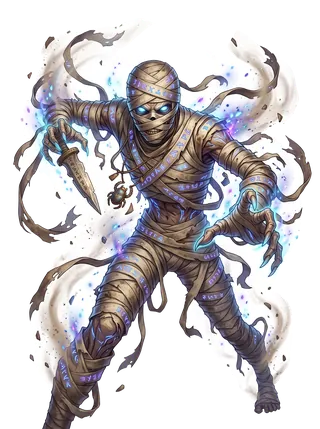
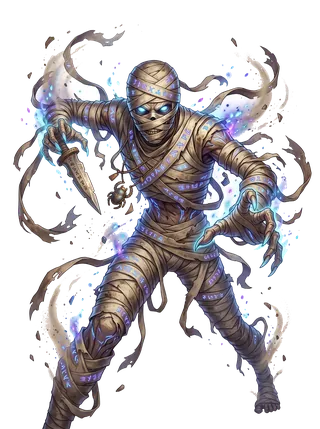
改以橫式為主；修正屍爆怪（木乃伊）去背
- 戰鬥畫面預設改為橫式 HD-2D，直式改為舊版選項
- 編隊畫面橫向時改成左右兩欄，設定列收成一行
- tools/clean_cutout.py：清除跟透明外圍相連的白色殘留，修正 m14
- 其他角色掃描後白邊比例都很低（白色多為衣服或光效），不動

Claude-Session: https://claude.ai/code/session_01265GNesEmZvmyxeNsVDU3M

diff --git a/css/style.css b/css/style.css
@@ -125,6 +125,29 @@ a.icon-btn { text-decoration: none; color: inherit; }
 }
 .auto-toggle { font-size: 12px; color: var(--muted); display: flex; align-items: center; gap: 4px; white-space: nowrap; }
 
+/* 編隊畫面：橫向螢幕改成左右兩欄（左：戰鬥與隊伍；右：英雄），兩欄各自捲動 */
+@media (orientation: landscape) and (min-width: 640px) {
+    #app { max-width: 1100px; }
+    #screen-setup.active { display: flex; flex-direction: column; height: 100dvh; padding-bottom: 0; padding-left: calc(14px + env(safe-area-inset-left, 0px)); padding-right: calc(14px + env(safe-area-inset-right, 0px)); }
+    #screen-setup .top { flex: none; }
+    .setup-cols { flex: 1; min-height: 0; display: grid; grid-template-columns: minmax(300px, 42%) 1fr; gap: 18px; }
+    .setup-left, .setup-right { overflow-y: auto; padding-bottom: 90px; }
+    .setup-left .sec:first-child, .setup-right .sec:first-child { margin-top: 10px; }
+    .hero-grid { grid-template-columns: repeat(auto-fill, minmax(92px, 1fr)); }
+    .start-bar { max-width: 1100px; padding-top: 6px; padding-bottom: calc(6px + var(--safe-bottom)); background: linear-gradient(transparent, #0b0907 40%); }
+    .start-bar .opt-col { flex-direction: row; flex-wrap: wrap; gap: 4px 12px; align-items: center; }
+    .start-bar .btn-primary { flex: none; width: 200px; height: 42px; font-size: 16px; }
+    .start-bar { justify-content: space-between; }
+    .setup-left, .setup-right { padding-bottom: 64px; }
+    #screen-setup .brand h1 { font-size: 17px; }
+    #screen-setup .top { padding-top: 2px; }
+    .sec { margin: 12px 0 6px; }
+    .enc { min-height: 0; padding: 6px 8px; }
+    .enc-desc { font-size: 10.5px; }
+    .hero-grid { grid-template-columns: repeat(auto-fill, minmax(84px, 1fr)); gap: 6px; }
+    .team-slots { max-width: 360px; }
+}
+
 /* ───────── 戰鬥畫面（場景式）───────── */
 #screen-battle { position: fixed; inset: 0; max-width: 520px; margin: 0 auto; overflow: hidden; background: #000; }
 #screen-battle.active { display: block; }

diff --git a/index.html b/index.html
@@ -24,6 +24,8 @@
             </div>
         </header>
 
+        <div class="setup-cols">
+        <div class="setup-left">
         <h2 class="sec">選擇戰鬥</h2>
         <div id="encounter-list" class="enc-list"></div>
 
@@ -32,16 +34,20 @@
         <div id="team-hint" class="team-hint"></div>
         <div id="presets" class="presets"></div>
 
+        </div>
+        <div class="setup-right">
         <h2 class="sec">英雄 <small>點一下加入隊伍，ⓘ 看技能</small></h2>
         <div id="hero-grid" class="hero-grid"></div>
+        </div>
+        </div>
 
         <div class="start-bar">
             <div class="opt-col">
                 <label class="auto-toggle"><input type="checkbox" id="chk-auto" checked> 自動戰鬥</label>
                 <label class="auto-toggle">戰鬥畫面
                     <select id="sel-view">
-                        <option value="portrait">直式</option>
-                        <option value="hd2d">橫式 HD-2D（試做）</option>
+                        <option value="hd2d">橫式 HD-2D</option>
+                        <option value="portrait">直式（舊版）</option>
                     </select>
                 </label>
                 <label class="auto-toggle">主動技

diff --git a/js/ui/app.js b/js/ui/app.js
@@ -14,7 +14,7 @@
         paused: false,
         ultMode: loadPref('ultMode', 'full'),     // 大招演出：full 完整／short 簡短／off 關閉
         skillMode: loadPref('skillMode', 'pause'), // 主動技演出：pause 暫停演出／flash 不停頓／off 關閉
-        view: loadPref('view', 'portrait'),        // 戰鬥畫面：portrait 直式／hd2d 橫式 HD-2D（試做）
+        view: loadPref('view', 'hd2d'),            // 戰鬥畫面：hd2d 橫式 HD-2D（主要）／portrait 直式舊版
         ultSkip: null,
         battle: null,
         runId: 0,

diff --git a/tools/clean_cutout.py b/tools/clean_cutout.py
@@ -1,0 +1,82 @@
+#!/usr/bin/env python3
+"""清除去背不乾淨的白色殘留（原圖白底沒被去掉的部分）。
+
+找出「接近白色、且跟透明外圍相連」的區塊，把它們變透明，邊緣做柔化。
+角色身上的白色（例如不跟外圍相連的白衣服）不會被動到。
+
+用法：
+    python3 tools/clean_cutout.py 檢查                 # 掃描所有角色圖，列出白邊比例高的
+    python3 tools/clean_cutout.py 修正 m14 [其他...]   # 修正並重新輸出 assets/sprites 與 assets/portraits
+"""
+import sys
+from pathlib import Path
+import numpy as np
+from PIL import Image
+from scipy import ndimage
+
+ROOT = Path(__file__).resolve().parent.parent
+
+
+def white_mask(a, lo=200, sat=34):
+    rgb = a[..., :3].astype(int)
+    mn, mx = rgb.min(-1), rgb.max(-1)
+    return (a[..., 3] > 0) & (mn > lo) & (mx - mn < sat)
+
+
+def leftover(a):
+    """跟透明外圍相連的白色區塊"""
+    clear = a[..., 3] < 8
+    w = white_mask(a)
+    lab, _ = ndimage.label(w | clear)
+    touching = np.unique(lab[clear])
+    touching = touching[touching > 0]
+    return np.isin(lab, touching) & w
+
+
+def clean(a):
+    a = a.copy()
+    region = leftover(a)
+    # 稍微擴張，連同白色區塊外緣的灰白過渡一起處理
+    grow = ndimage.binary_dilation(region, iterations=2)
+    rgb = a[..., :3].astype(float)
+    light = rgb.min(-1)
+    # 擴張帶內：越白越透明（避免留下白色光暈）
+    edge = grow & ~region
+    fade = np.clip((light - 150) / 80, 0, 1)
+    alpha = a[..., 3].astype(float)
+    alpha[region] = 0
+    alpha[edge] = alpha[edge] * (1 - fade[edge])
+    # 整體邊緣再柔化一點
+    soft = ndimage.gaussian_filter(alpha, 0.6)
+    alpha = np.where(alpha > 0, np.minimum(alpha, soft * 1.15), 0)
+    a[..., 3] = np.clip(alpha, 0, 255).astype(np.uint8)
+    return a
+
+
+def export(name, im):
+    im.save(ROOT / 'images' / f'{name}.png')
+    bbox = im.getbbox()
+    sp = im.crop(bbox)
+    w = 460
+    sp.resize((w, round(sp.height * w / sp.width)), Image.LANCZOS).save(ROOT / 'assets' / 'sprites' / f'{name}.webp', 'WEBP', quality=82, method=6)
+    w = 320
+    im.resize((w, round(im.height * w / im.width)), Image.LANCZOS).save(ROOT / 'assets' / 'portraits' / f'{name}.webp', 'WEBP', quality=80, method=6)
+
+
+if __name__ == '__main__':
+    cmd = sys.argv[1] if len(sys.argv) > 1 else '檢查'
+    if cmd == '檢查':
+        for f in sorted((ROOT / 'assets' / 'sprites').glob('*.webp')):
+            name = f.stem
+            a = np.array(Image.open(ROOT / 'images' / f'{name}.png').convert('RGBA'))
+            opaque = (a[..., 3] > 0).sum()
+            ratio = leftover(a).sum() / max(1, opaque)
+            print(f'{name:14s} 白色殘留 {ratio * 100:5.1f}%' + ('  ← 需要修正' if ratio > 0.03 else ''))
+    else:
+        for name in sys.argv[2:]:
+            src = ROOT / 'images' / f'{name}.png'
+            a = np.array(Image.open(src).convert('RGBA'))
+            before = leftover(a).sum()
+            out = clean(a)
+            export(name, Image.fromarray(out))
+            print(f'✓ {name}：清掉 {before} 個白色殘留像素')
